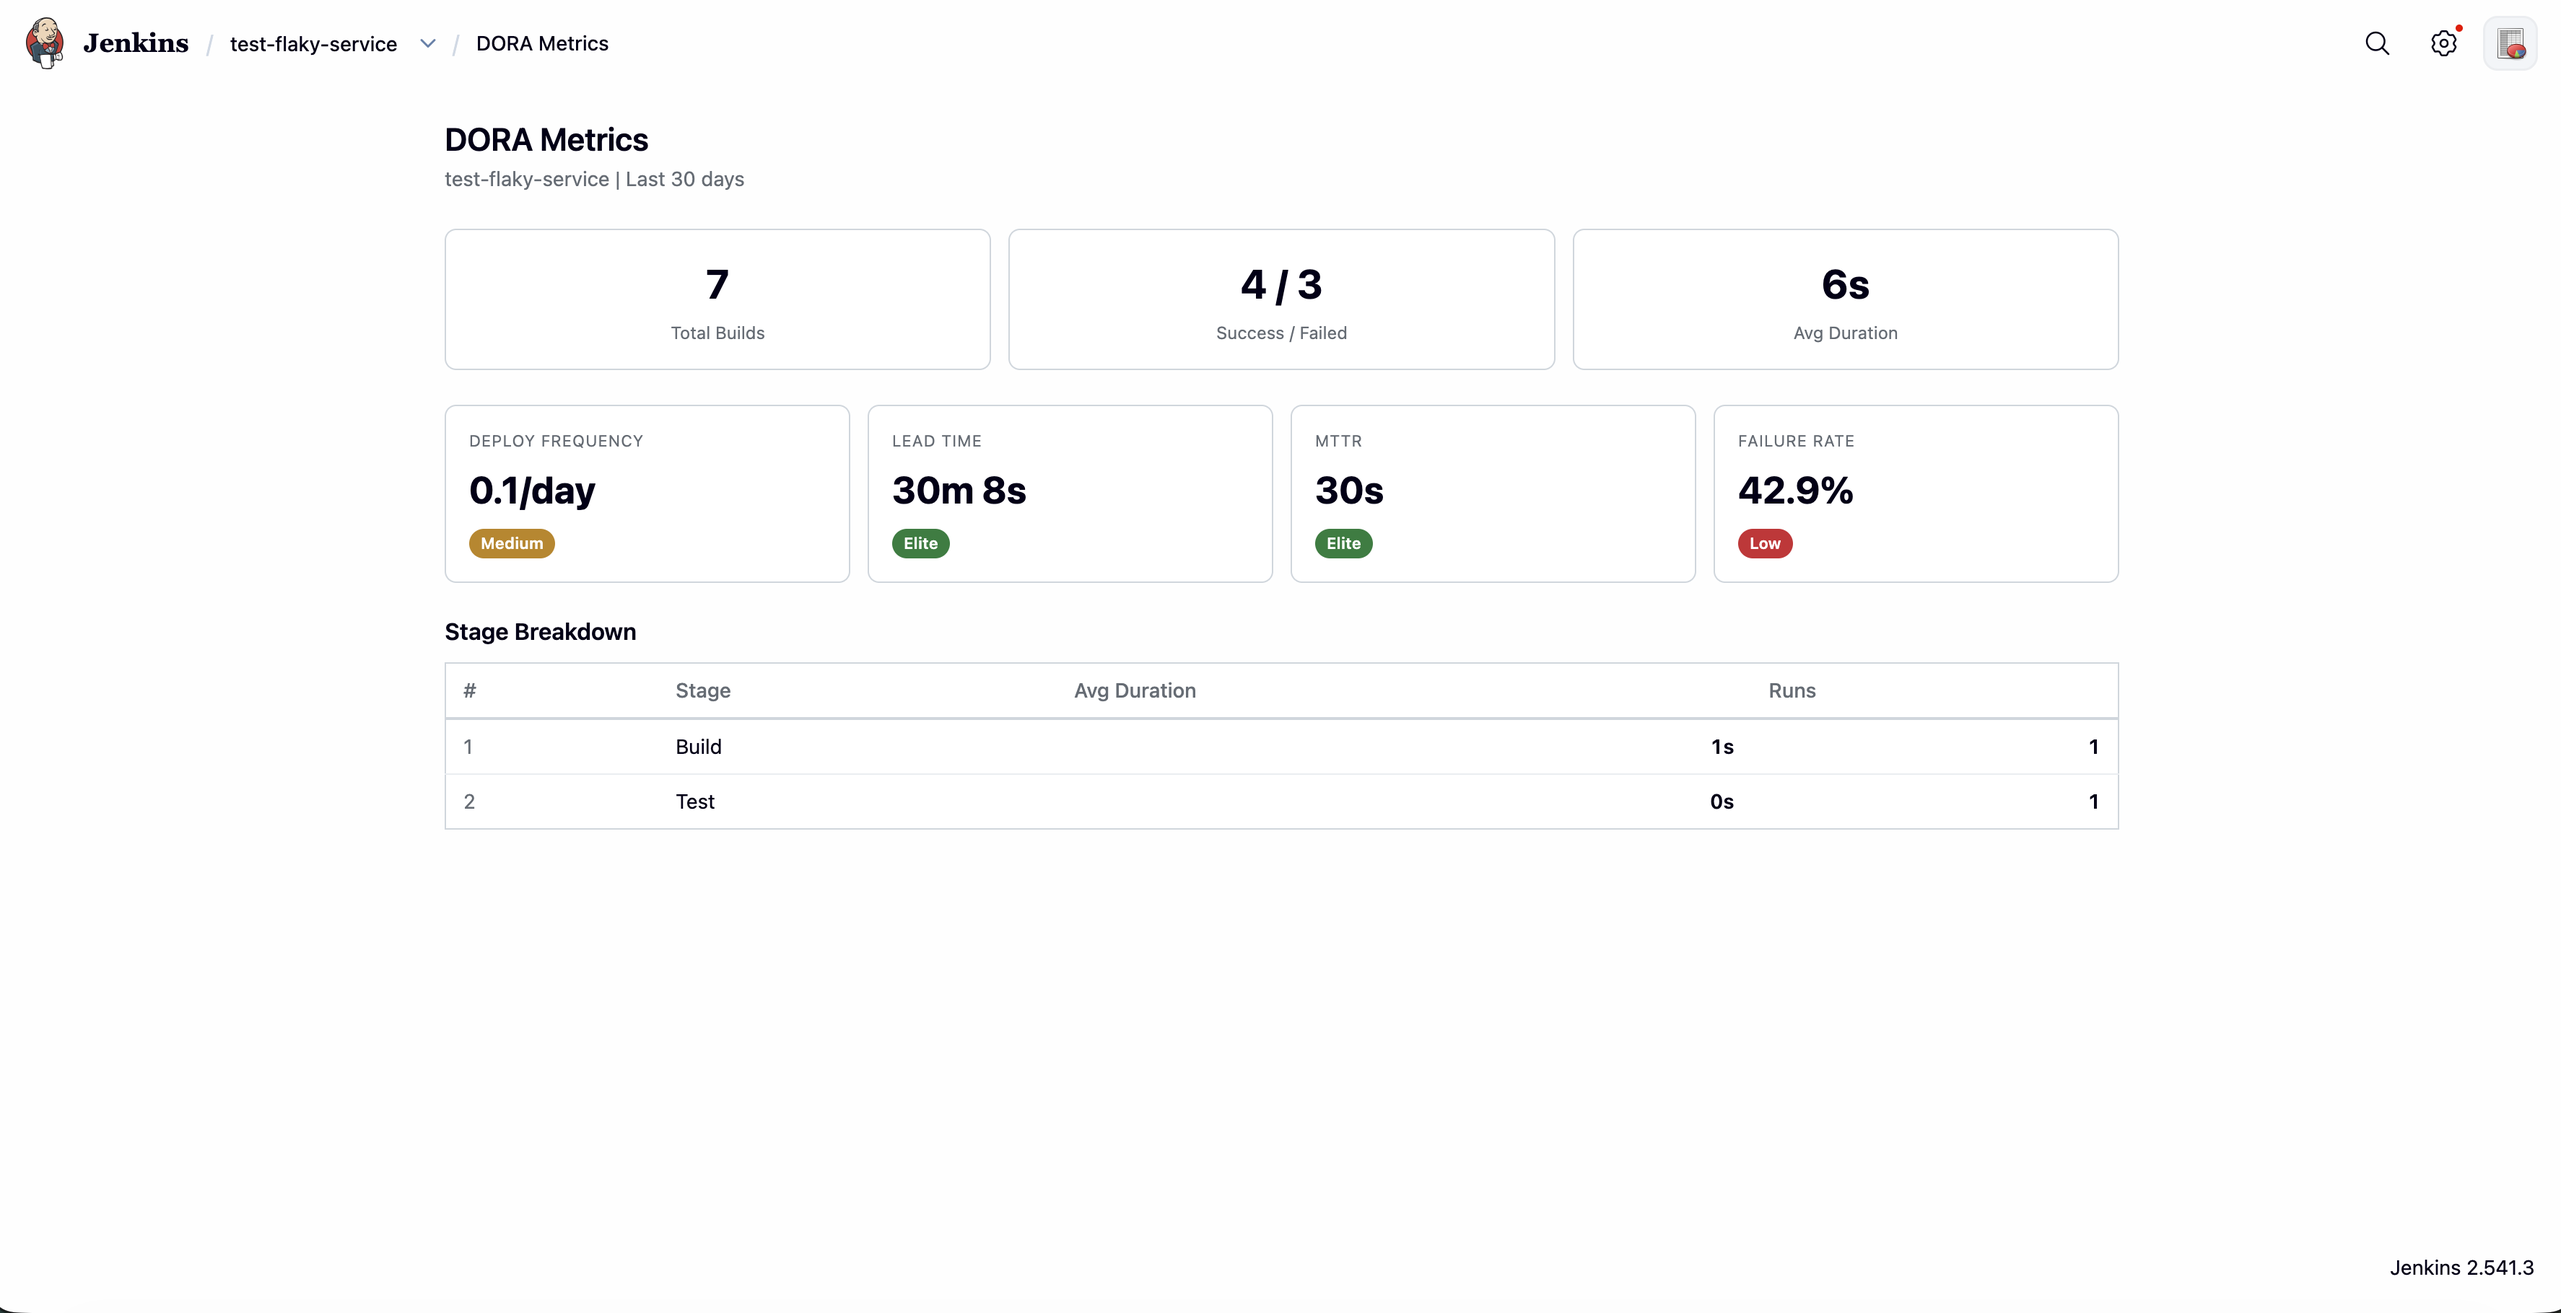
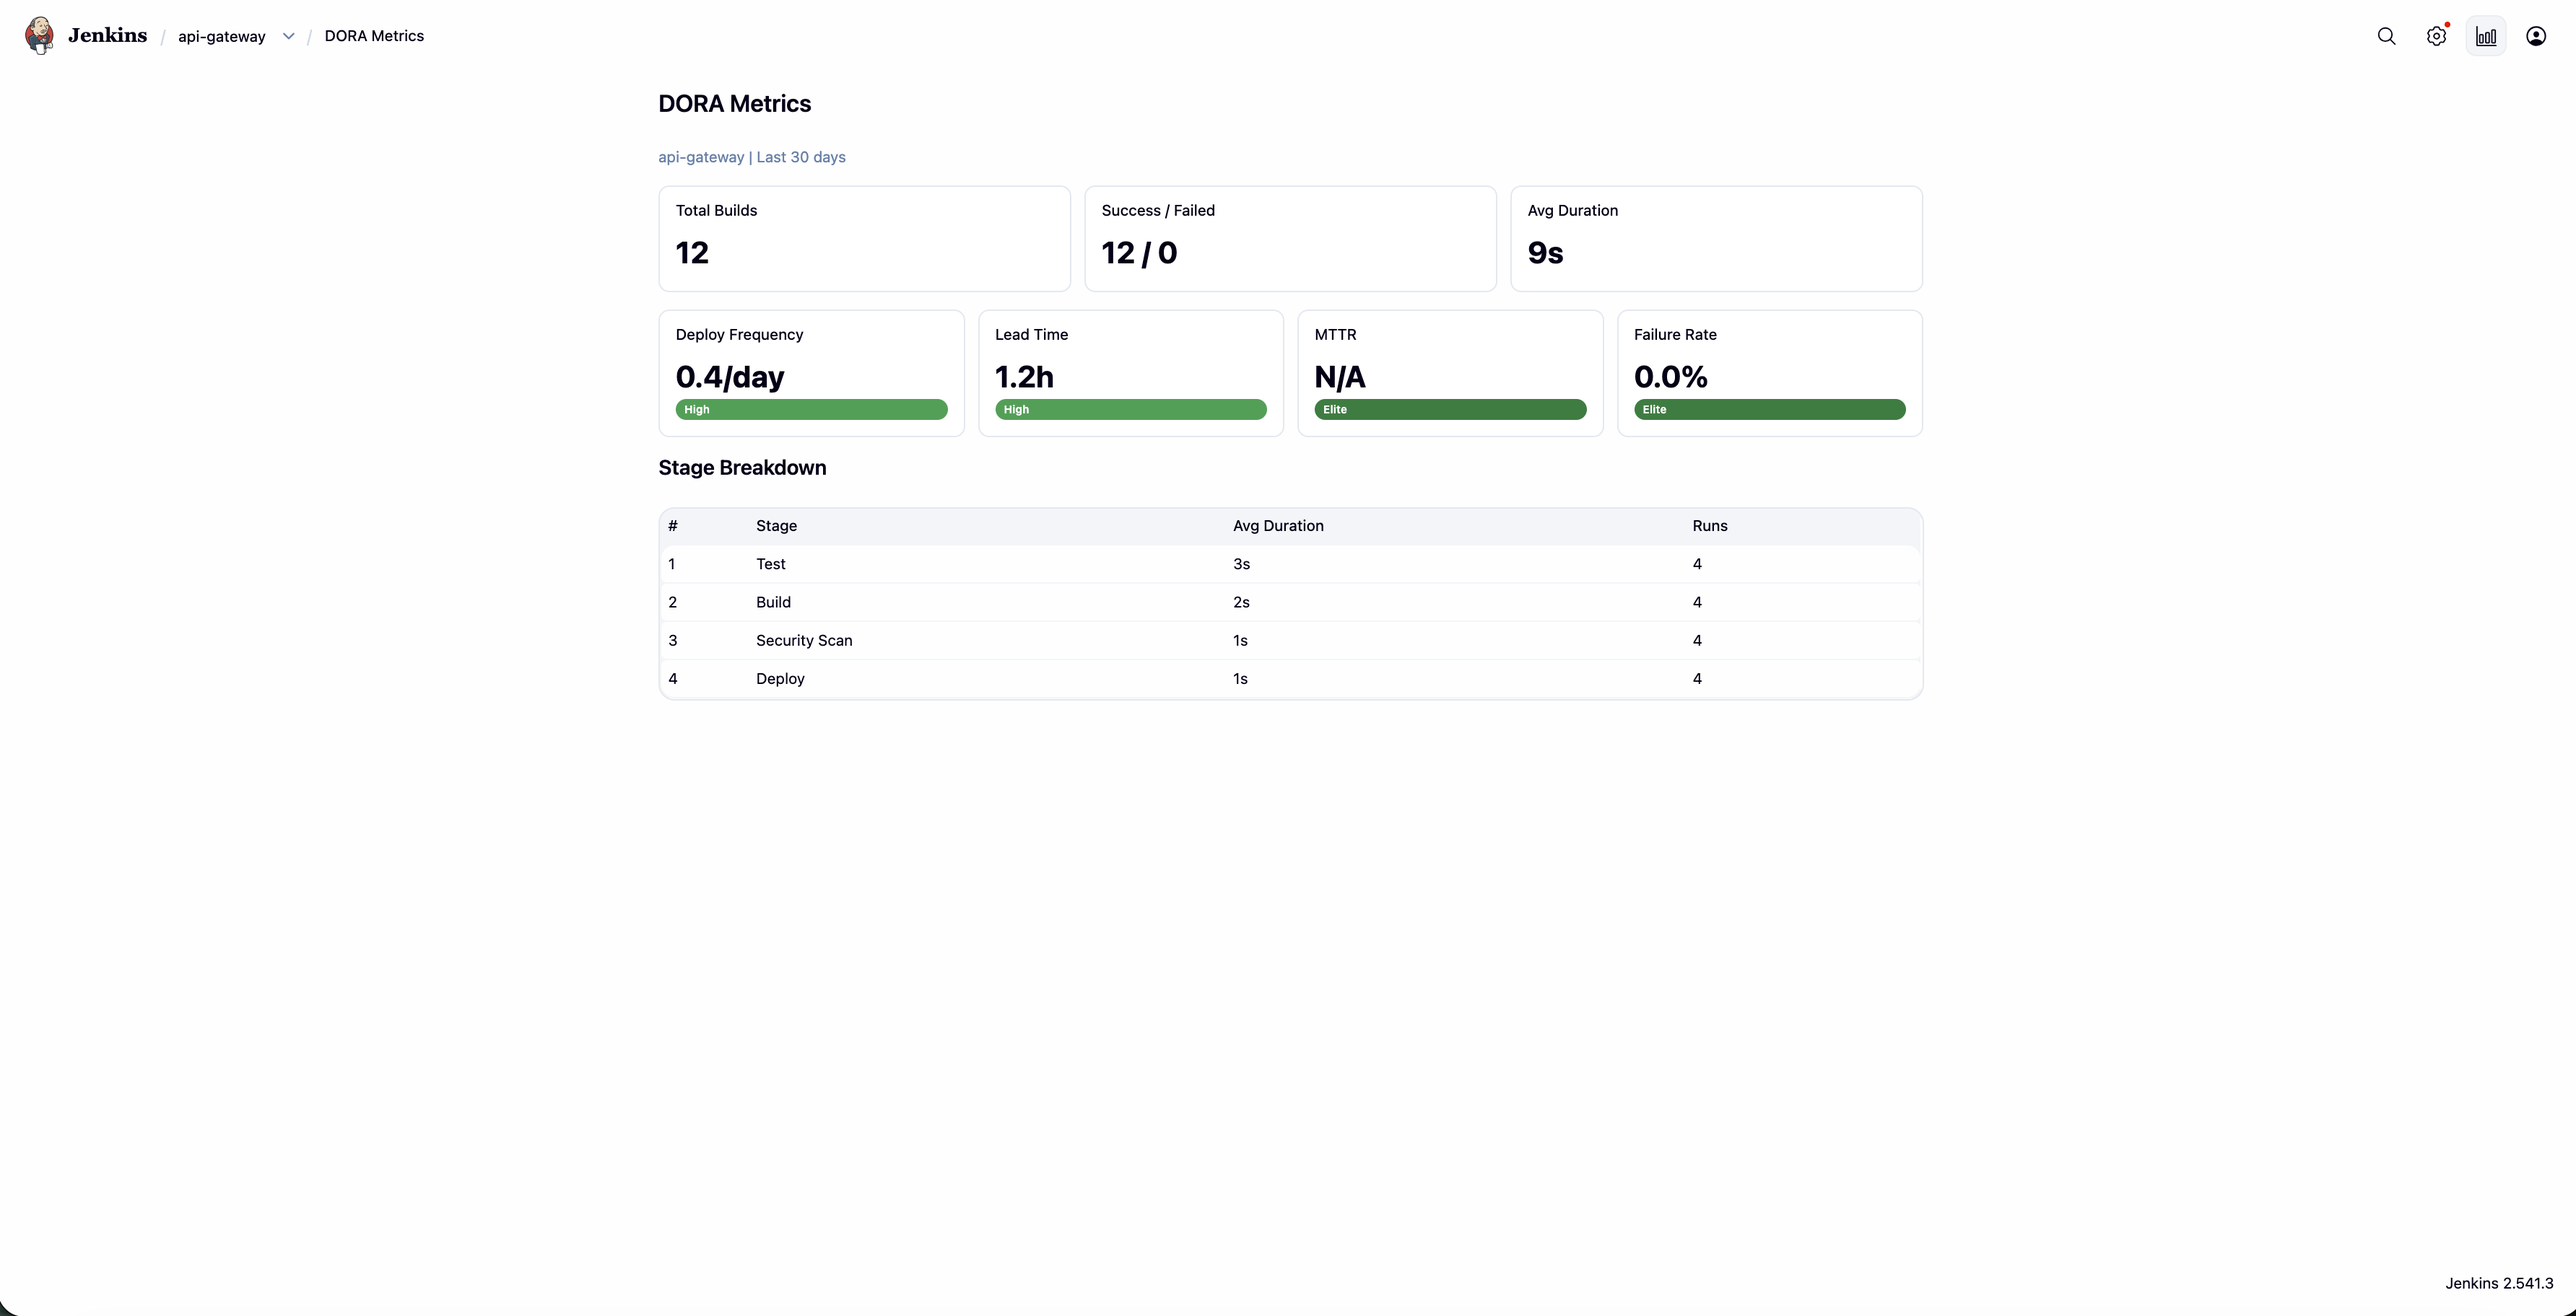
fix: update screenshots and README for current UI
New screenshots showing l:app-bar, jenkins-table--small, chevrons,
per-job stages, config with export/thresholds, and viewer dashboard
with permission-filtered rankings.

diff --git a/README.md b/README.md
@@ -2,7 +2,7 @@
 
 A Jenkins plugin that tracks all four DORA metrics, pipeline analytics, rankings, and performance trends. No external infrastructure required.
 
-![Dashboard Overview](docs/dora-metrics-dashboard.png)
+![Dashboard Overview](docs/dora-dashboard.png)
 
 ## Features
 
@@ -12,46 +12,50 @@ A Jenkins plugin that tracks all four DORA metrics, pipeline analytics, rankings
 - Mean Time to Restore (failure to recovery)
 - Change Failure Rate (% failed deployments)
 
-**Pipeline Rankings**
+**Pipeline Rankings and Stage Analytics**
 
-![Pipeline Rankings](docs/Pipeline-rankings.png)
+![Pipeline Rankings and Stage Analytics](docs/dora-rankings-stages.png)
 
 - Slowest pipelines by average duration
 - Most failing pipelines by failure rate
 - Most improved (month-over-month duration change)
 - Flakiest pipelines (pass-fail-pass pattern detection)
-
-**Stage-Level Insights**
-
-![Stage Analytics](docs/stage-analysis.png)
-
-- Slowest stages across all pipelines
-- Most failing stages by failure rate
-
-**Dashboard**
-- Interactive Chart.js trend charts (build volume, duration over time)
-- Sparkline trends on each DORA metric card
-- Date range picker (7d / 30d / 90d / 180d / 1y / custom date range)
-- Collapsible sections
-- Job drill-down links (click any pipeline to see its per-job metrics)
-- Per-job DORA Metrics tab on every job page
-- CSV and JSON export
+- Slowest and most failing stages across all pipelines
 
 **Per-Job Metrics**
 
 ![Per-Job Metrics](docs/per-job-dora.png)
 
+- Per-job DORA Metrics tab on every job page
+- Stage breakdown with duration and run counts
+
+**Dashboard**
+- Interactive Chart.js trend charts (build volume, duration over time)
+- Sparkline trends on each DORA metric card
+- Date range picker (7d / 30d / 90d / 180d / 1y / custom date range)
+- Collapsible sections with chevron indicators
+- Job drill-down links (click any pipeline to see its per-job metrics)
+- CSV and JSON export
+- Permission-aware: users only see jobs they have access to
+
 **Configuration**
 
-![Configuration](docs/manage-jenkins-config.png)
+![Configuration](docs/configuration.png)
+
+![Cloud Export and Thresholds](docs/configuration-export.png)
 
 - Production job pattern (regex)
 - Excluded job pattern (regex)
 - Folder-based job selection
 - Branch filtering (main/master or custom)
 - Customizable DORA band thresholds
-- Configurable data retention period
-- External storage export settings (S3-compatible, HTTP endpoint)
+- Cloud storage export (S3-compatible, HTTP endpoint) with Jenkins Credentials
+
+**Permission-Aware Dashboard**
+
+![Viewer Dashboard](docs/viewer-dashboard.png)
+
+Rankings only show jobs the current user has access to. Users with limited permissions see a filtered view.
 
 **REST API**
 ```
@@ -125,6 +129,7 @@ io.jenkins.plugins.dorametrics/
 ## Security
 
 - All API endpoints require Jenkins READ permission
+- Dashboard rankings filtered by Item.READ (users only see jobs they can access)
 - Export credentials managed through Jenkins Credentials plugin (encrypted, auditable)
 - SQL queries use parameterized statements (no SQL injection)
 - CSV export protects against CSV injection attacks
@@ -154,7 +159,7 @@ io.jenkins.plugins.dorametrics/
 1. Fork the repository
 2. Create a feature branch
 3. Write tests for new functionality
-4. Run `mvn test` (all 82 tests must pass)
+4. Run `mvn test` (all 87 tests must pass)
 5. Submit a pull request
 
 ## License
